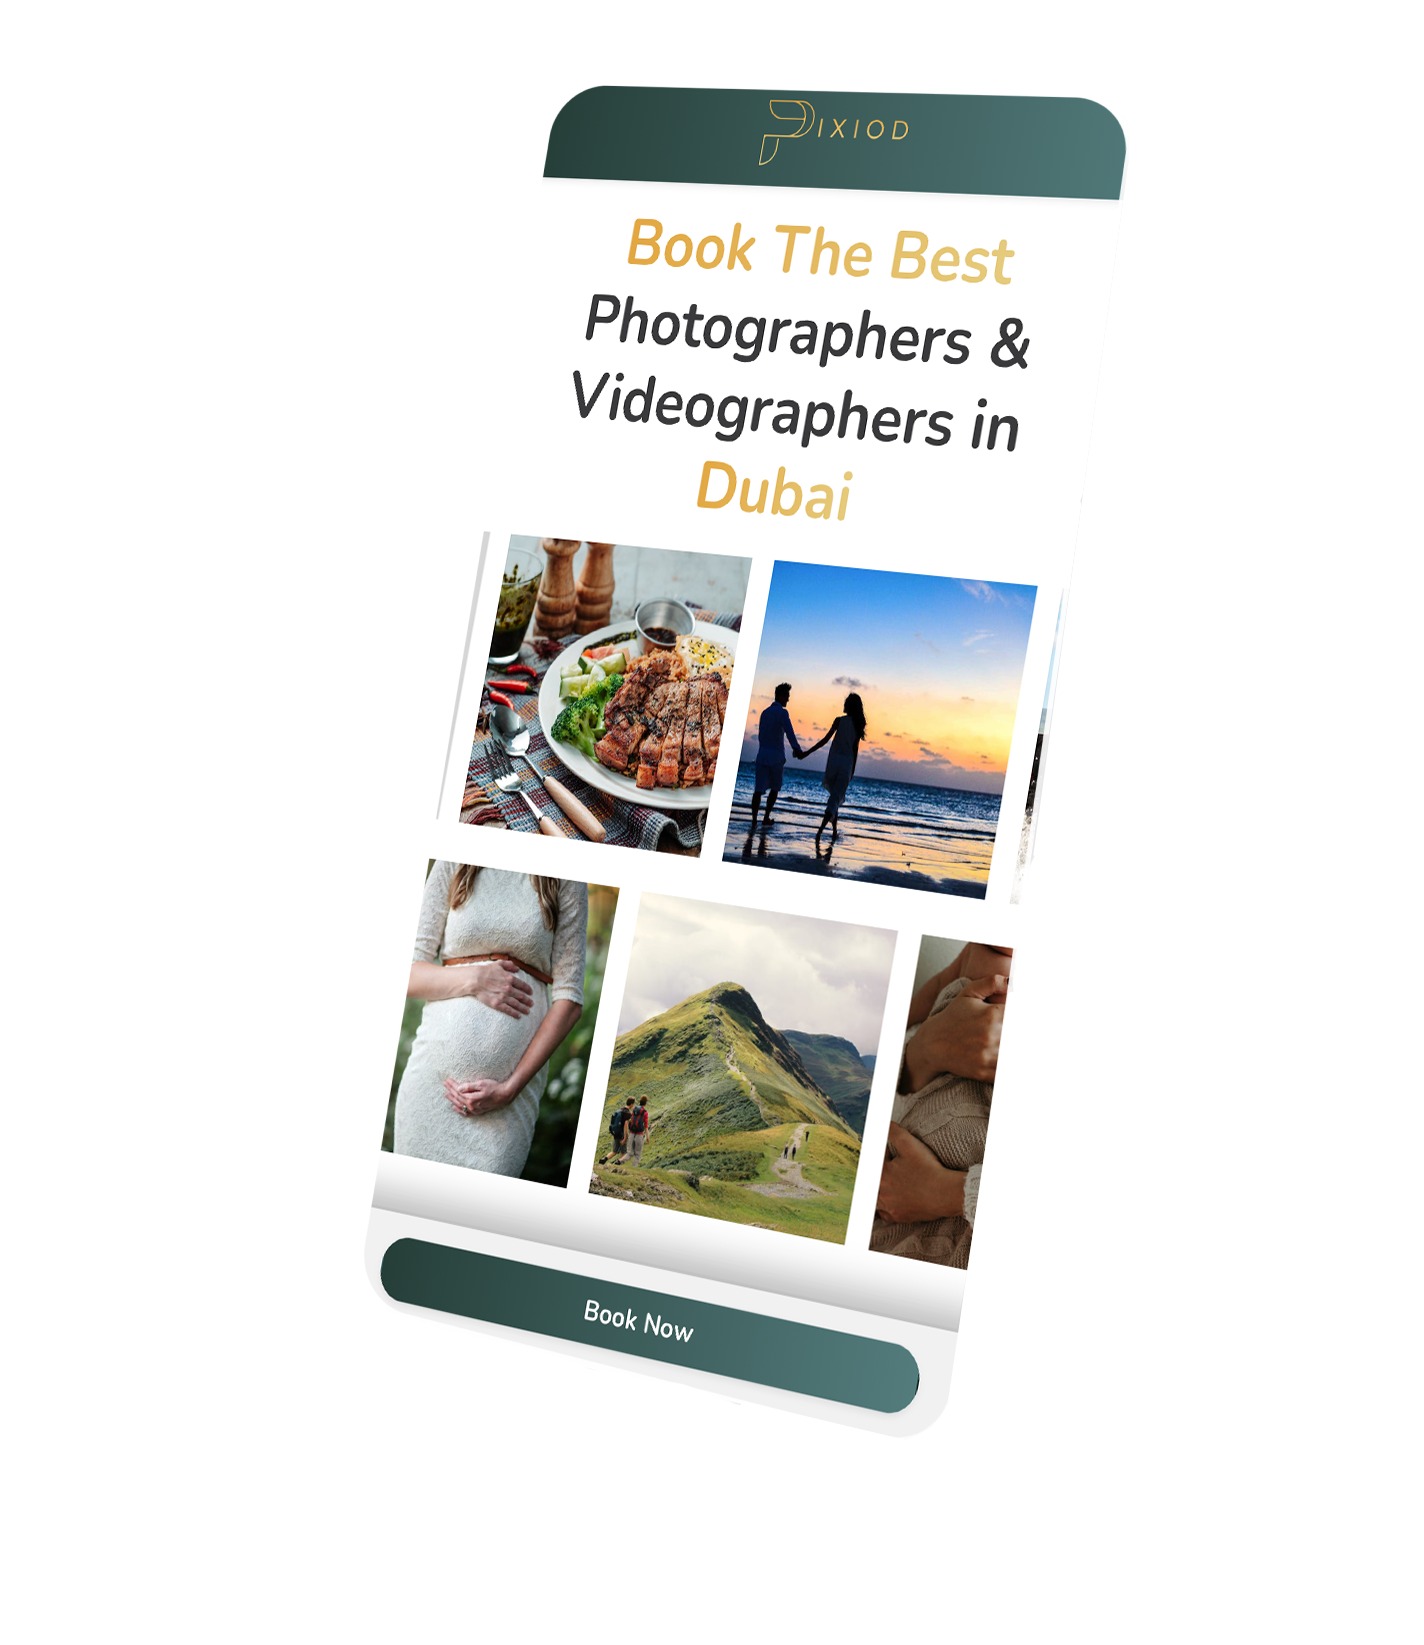
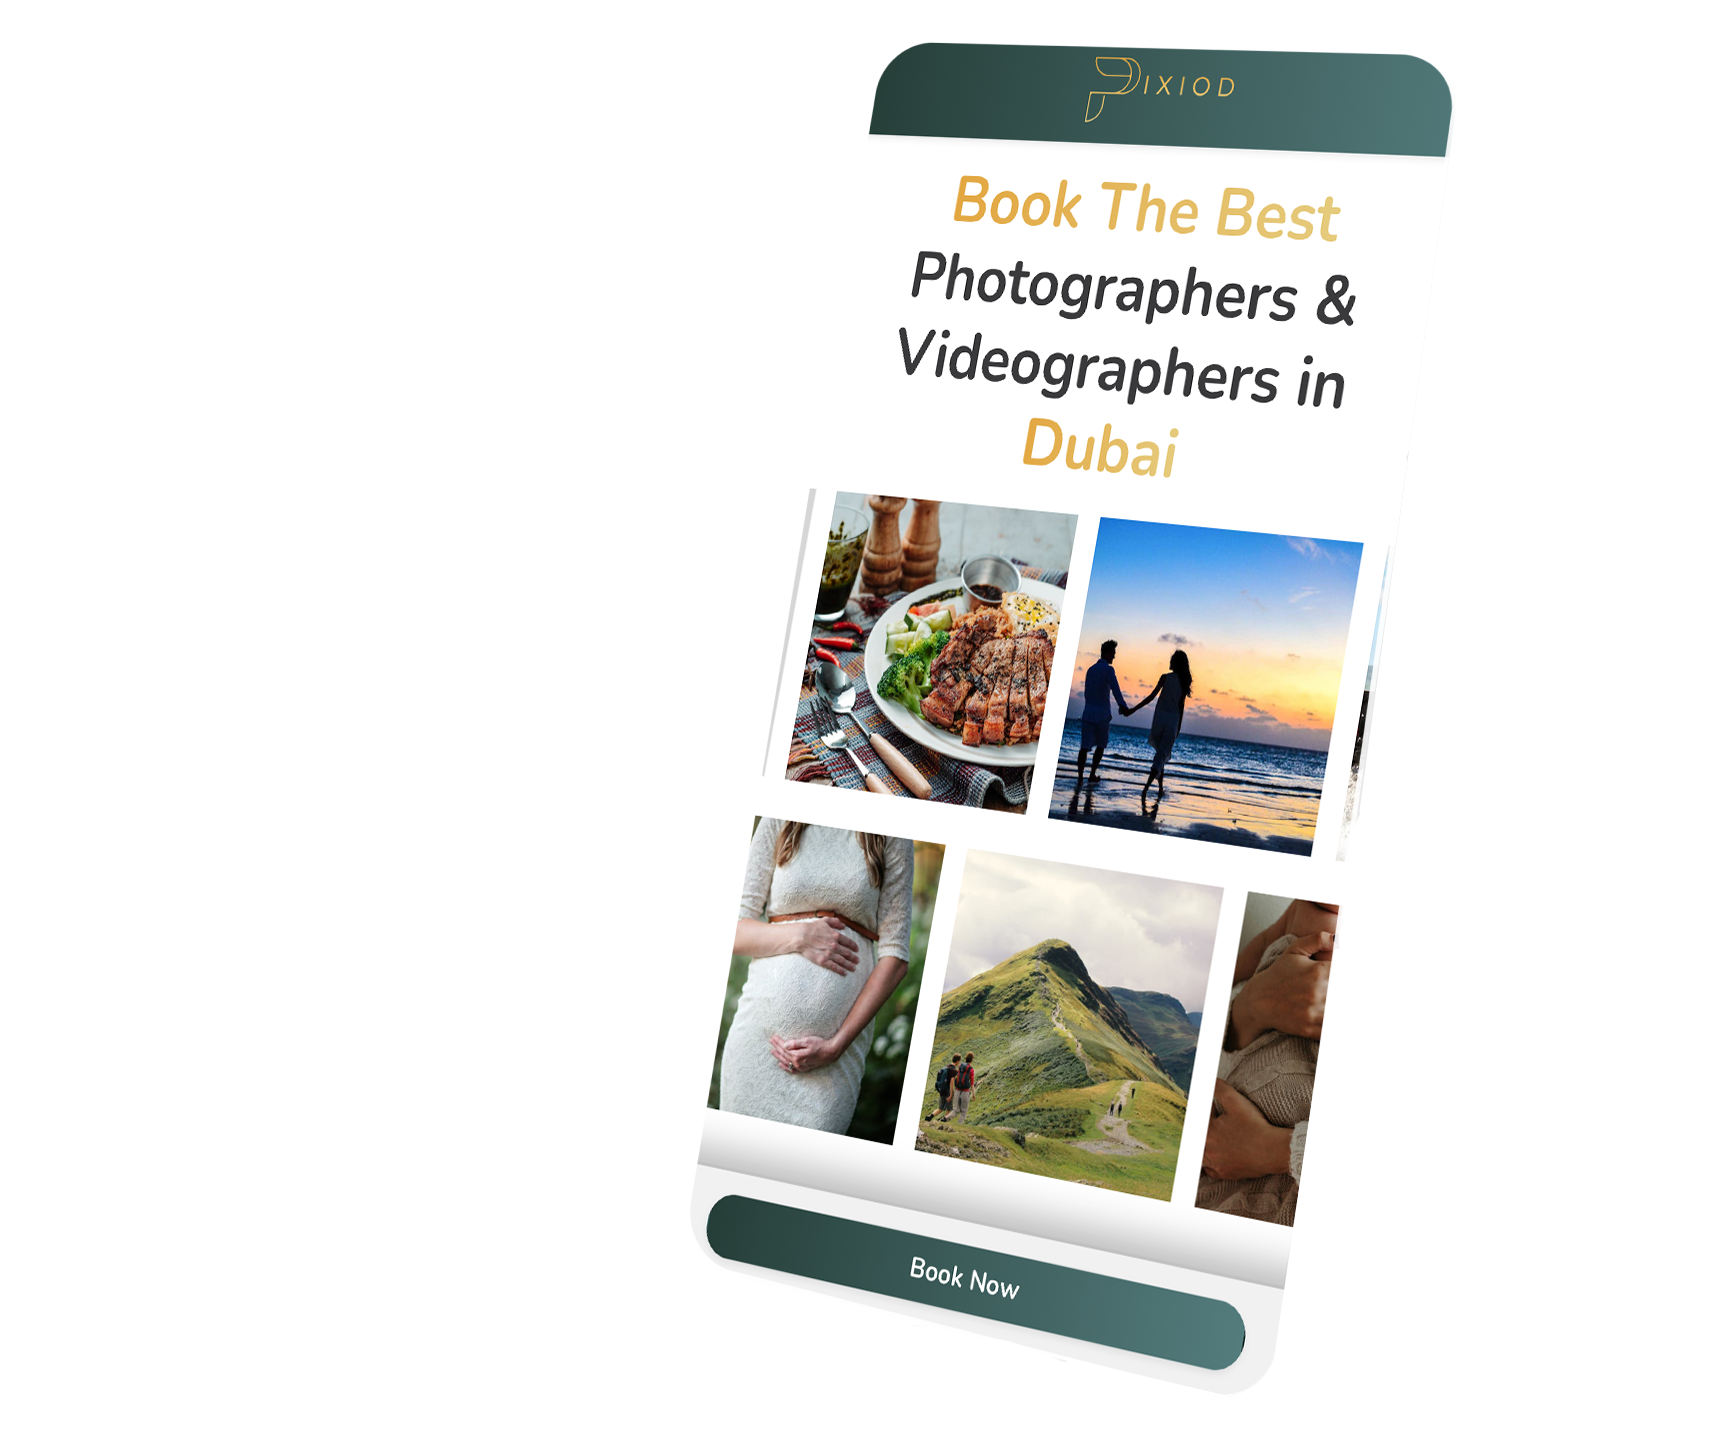
changes

Changed region(s): [[0.2472, 0.0306, 0.8343, 0.9798]]

diff --git a/elements/home_carousel.php b/elements/home_carousel.php
@@ -4,7 +4,7 @@
         margin: 0 auto;
     }
 
-  
+
     .image-section {
         position: relative;
         height: 300px;
@@ -86,12 +86,12 @@
     /* Media query per vari dispositivi */
     @media (min-width: 320px) and (max-width: 480px)
     /* smartphone */
-   {
+        {
         /* tablet in landscape e laptop con bassa risoluzione */
 
         /* Rimozione dei margini dal contenitore principale */
         .container {
-            padding: 0 ;
+            padding: 0;
             margin: 0 !important;
             overflow: hidden;
         }
@@ -162,6 +162,22 @@
             /* Mantiene il layout specifico per desktop */
         }
     }
+
+    /* Stile per schermi desktop */
+    @media (min-width: 1025px) {
+        .swiper-custom {
+            width: 70% !important;
+            margin: 0 auto;
+        }
+    }
+
+    /* Stile per schermi desktop grandi (esclude laptop e schermi Mac più piccoli) */
+    @media (min-width: 1600px) {
+        .swiper-custom {
+            width: 50% !important;
+            margin: 0 auto;
+        }
+    }
 </style>
 
 <?php
@@ -211,7 +227,7 @@ function renderCarousel($items)
 <!-- Sezione per BUSINESS -->
 <section class="container py-2 mb-1">
     <h1 class="text-center">BUSINESS</h1>
-    <div class="swiper business-swiper">
+    <div class="swiper business-swiper swiper-custom">
         <div class="swiper-wrapper mb-4">
             <?php renderCarousel($businessItems); ?>
         </div>
@@ -222,7 +238,7 @@ function renderCarousel($items)
 <!-- Sezione per PERSONAL -->
 <section class="container py-2 mb-1">
     <h1 class="text-center">PERSONAL</h1>
-    <div class="swiper personal-swiper ">
+    <div class="swiper personal-swiper swiper-custom ">
         <div class="swiper-wrapper mb-4">
             <?php renderCarousel($personalItems); ?>
         </div>

diff --git a/index.php b/index.php
@@ -121,19 +121,19 @@ $selected_images = array_slice($images, 0, 20); // Select only the first 20 imag
         position: relative;
         /* Posizionato in modo relativo per influire sull'altezza del container */
         z-index: 1;
-        width: 50%;
+        width: 90%;
         max-width: 100%;
     }
 
     .elements-inside {
         z-index: 2;
-        width: 50%;
+        width: 90%;
         max-width: 100%;
     }
 
     .elements-inside2 {
         z-index: 3;
-        width: 50%;
+        width: 90%;
         max-width: 100%;
     }
 
@@ -142,9 +142,11 @@ $selected_images = array_slice($images, 0, 20); // Select only the first 20 imag
         .phone-image,
         .elements-inside,
         .elements-inside2 {
-            width: 90%;
+            width: 120%;
         }
     }
+
+    
 </style>
 
 <header class="bg-white py-4 mt-5">
@@ -213,11 +215,11 @@ $selected_images = array_slice($images, 0, 20); // Select only the first 20 imag
 
 <div class="container-fluid">
     <div class="row text-center">
-        <div class="col-md-4"> </div>
-        <div class="col-md-4">
+        <div class="col-md-2"> </div>
+        <div class="col-md-8">
             <?php include("elements/home_carousel.php"); ?>
         </div>
-        <div class="col-md-4"> </div>
+        <div class="col-md-2"> </div>
     </div>
 </div>
 <section class="container-fluid mt-4"></section>

diff --git a/components/footer.php b/components/footer.php
@@ -11,5 +11,5 @@
   gtag('config', 'G-QS84SYS38E');
 </script>
 </body>
-
+<footer class="p-4 w-100 bg-dark mb-0"><h5 class="text-light text-center">Pixiod @ 2024</h5></footer>
 </html>
